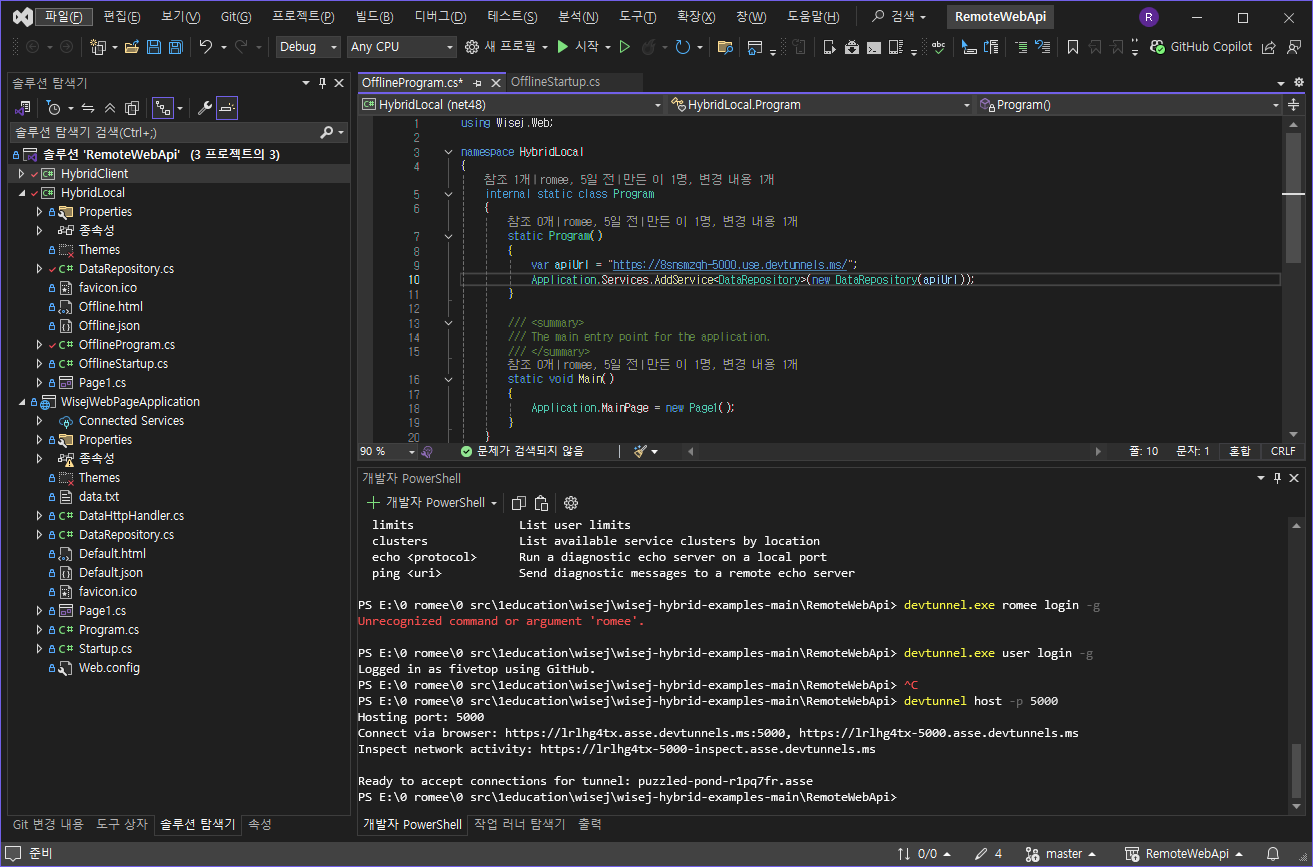
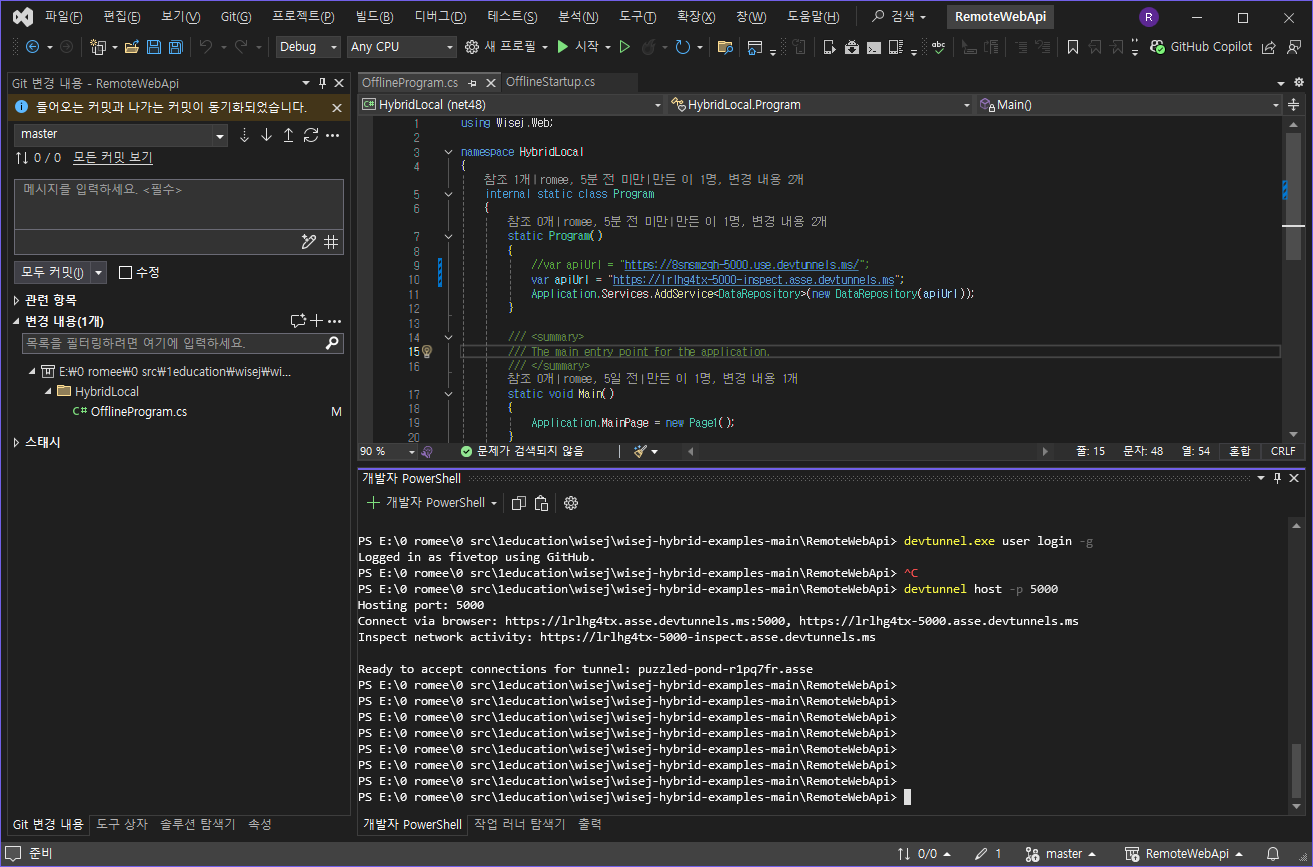
init2

diff --git a/HybridLocal/OfflineProgram.cs b/HybridLocal/OfflineProgram.cs
@@ -6,7 +6,8 @@ namespace HybridLocal
 	{
 		static Program()
 		{
-            var apiUrl = "https://8snsmzqh-5000.use.devtunnels.ms/";
+            //var apiUrl = "https://8snsmzqh-5000.use.devtunnels.ms/";
+            var apiUrl = "https://lrlhg4tx-5000-inspect.asse.devtunnels.ms";
             Application.Services.AddService<DataRepository>(new DataRepository(apiUrl));
 		}
 
